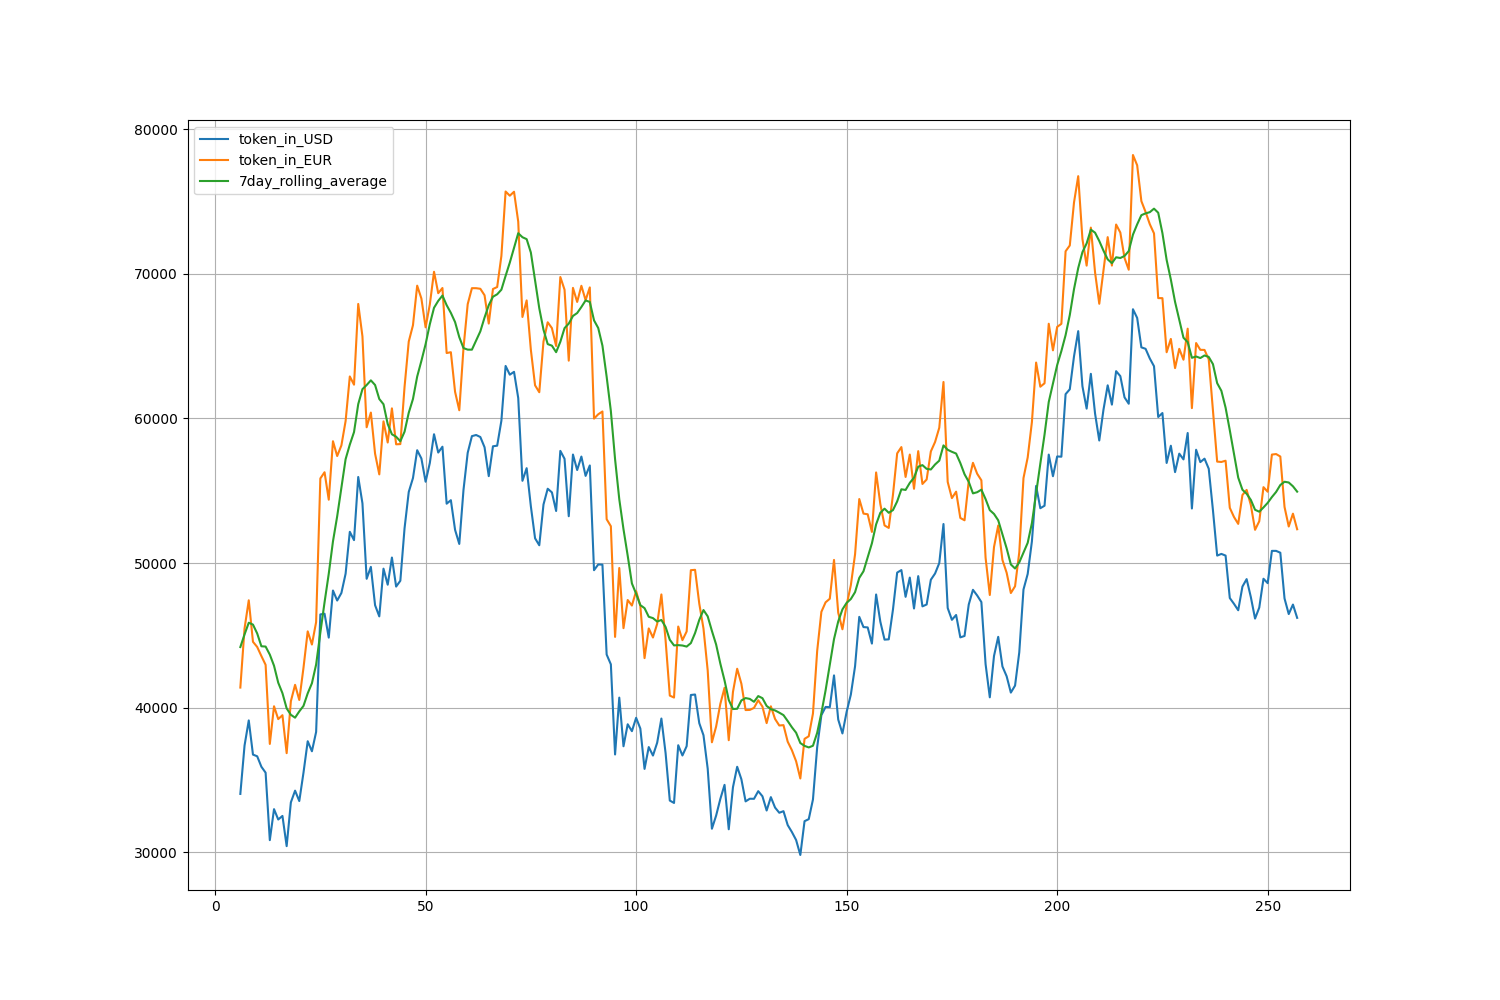
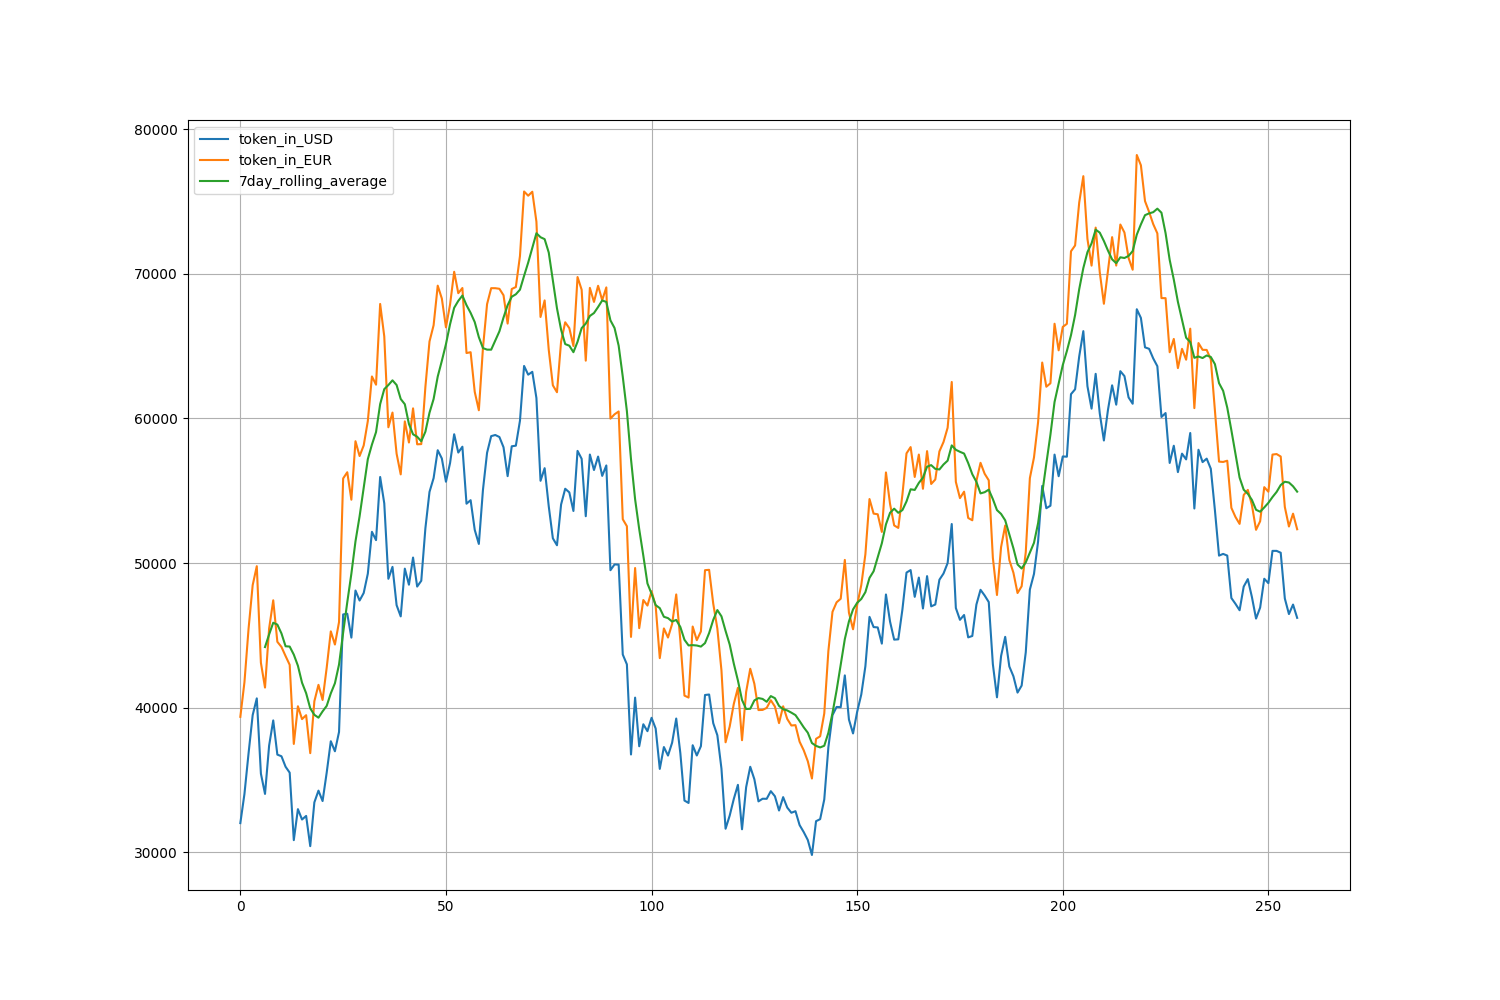
Updating Read Me, Design Flow, Deployment Instructions

diff --git a/calculate_rolling.py b/calculate_rolling.py
@@ -1,6 +1,7 @@
 import pandas as pd
 from messari import MessariData
 import matplotlib.pyplot as plt
+import sys
 
 
 def prepare_euro_ref_data(ref_file, base_currency, min_date, max_date):
@@ -24,17 +25,21 @@ def generate_viz(merged_df):
     """
     plt.figure(figsize=(15,10))
     plt.grid(True)
-    plt.plot(merged_df['amount'], label="token_in_USD")
-    plt.plot(merged_df['eur'], label="token_in_EUR")
+    plt.plot(merged_df['amount_in_usd'], label="token_in_USD")
+    plt.plot(merged_df['euro_price'], label="token_in_EUR")
     plt.plot(merged_df['rolling_avg'], label="7day_rolling_average")
     plt.legend(loc=2)
     plt.savefig("rolling_average_picture.png")
     return 
 
-def calculate_rolling_average(ref_file, token, metric, year, base_currency, min_date, max_date):
+def calculate_rolling_average(context):
     """
         Calculate rolling average
     """
+    # unpack kwargs
+    ref_file = context['ref_file']
+    token, metric, year = context['token'], context['metric'], context['year']
+    base_currency, min_date, max_date = context['base_currency'], context['min_date'], context['max_date']
 
     # instantiate object to get bitcoin price for the given year
     token_timeseries_data = MessariData(token, metric, year).get_asset_timeseries()
@@ -44,7 +49,7 @@ def calculate_rolling_average(ref_file, token, metric, year, base_currency, min_
 
     # create dataframe with response data
     try:
-        token_df = pd.DataFrame(token_timeseries_data['data']['values'], columns=['Date', 'amount'])
+        token_df = pd.DataFrame(token_timeseries_data['data']['values'], columns=['Date', 'amount_in_usd'])
     except:
         raise ("Error extracting response")
     
@@ -53,17 +58,29 @@ def calculate_rolling_average(ref_file, token, metric, year, base_currency, min_
 
     # marge source and reference data to calculate euro conversion from USD
     merged_df = euro_ref.merge(token_df, on='Date')
-    merged_df['eur'] = merged_df['USD'] * merged_df['amount']
+    merged_df['euro_price'] = merged_df['USD'] * merged_df['amount_in_usd']
 
     # calculate 7 rolling average and dropping nulls
-    merged_df['rolling_avg'] = merged_df['eur'].rolling(7).mean()
-    merged_df = merged_df.dropna()
+    merged_df['rolling_avg'] = merged_df['euro_price'].rolling(7).mean()
+    #merged_df = merged_df.dropna()
+
+    # del unused columns
+    del merged_df['USD']
 
     # prepare visualization
     generate_viz(merged_df)
 
-    return 
+    # create output csv
+    merged_df.to_csv(f'data_output/{base_currency}_EUR_{token}_roll_avg_{year}.csv', index=False)
 
-print(calculate_rolling_average('data/eurofxref-hist.csv',
-                                'bitcoin', 'price', '2021', 'USD',
-                                '2021-01-01', '2021-12-31'))
+    print("Process completed")
+    return 
+'''
+print(calculate_rolling_average('data/eurofxref-hist.csv', 'bitcoin', 'price', '2021', 'USD', '2021-01-01', '2021-12-31'))
+'''
+# unpack args and sending context 
+args = sys.argv[1:]
+key_words = ['ref_file', 'token', 'metric', 'year', 'base_currency', 'min_date', 'max_date']
+context = {key:args[index] for index, key in enumerate(key_words)}
+
+calculate_rolling_average(context)

diff --git a/messari.py b/messari.py
@@ -19,3 +19,21 @@ class MessariData:
         except Exception as e:
             raise e
         return response.json()
+
+
+if __name__ == "__main__":
+    test_md = MessariData('bitcoin', 'price', 2021)
+    response = test_md.get_asset_timeseries({"start":"2021-01-01T01:00:00.000Z",
+                    "end":f"2021-01-02T01:00:00.000Z",
+                    "interval":"1d",
+                    "columns":"close",
+                    "timestamp-format":"rfc3339"})
+
+    # asserting data in response keys
+    assert "data" in response.keys()
+
+    # checking token symbol
+    assert response["data"]["symbol"] == "BTC"
+
+    # check value
+    assert response["data"]["values"][0][1] == 32200.200908880128

diff --git a/README.md b/README.md
@@ -1,1 +1,66 @@
-# bitcoin_rolling_avg
+# Calculate Rolling Average for Bitcoin Price in Euro. 
+
+Python App to calculate rolling average in EUR for bitcoin price for the year 2021. Uses Messari API to fetch bitcoin price and uses reference data from Euro to calculate the average. 
+
+### Outputs
+
+- CSV containing rolling average including nulls. 
+    - data_output/USD_EUR_bitcoin_roll_avg_2021.csv
+- visualization showing the trend of 7 day rolling avg with price in USD & EUR. 
+    - rolling_average_picture.png
+
+### Running the application
+
+```python
+python calculate_rolling.py 'data/eurofxref-hist.csv' 'bitcoin' 'price' '2021' 'USD' '2021-01-01' '2021-12-31'
+```
+
+Script followed by
+- **reference file name** containing USD to EUR exchange rate
+- **token** as expected by messari api
+- **metric** as expected by messari api
+- **year** for which the average is calculated
+- **base currency** for conversion
+- **min date** range for the request
+- **max date** range for the request
+
+### Design & Approach
+
+- Separate module for API Interaction which provides extensibility to fetch data from other end points. 
+- Average calculation and Input are coupled in the same script but handled separately. 
+- Source data can be staged before compute to provide the ability to perform multiple reads to the as needed.
+- backend data store provides flexibility to perform adhoc querying, connect data store to BI tools.
+
+Here is the high level design for the app
+
+More unit test cases should be added to relevant scripts to cover base functionality (added few relevant ones in messari.py)
+
+![High level design](/high_level_design.png)
+
+### Production Considerations & deployment
+
+Considering this application will be executed daily and the complexity, serverless deployment like lambda could be faster and easier to maintain. Here are some patterns based on some assumptions
+
+- Assumptions
+    - Daily fetch for the current day
+    - this application to calculate rolling average is maintained separately
+    - we are clear with known issues around API, Cloud environment
+
+- Requirements
+    - Functional
+        - Ability to Calculate 7 day rolling average in EURO
+        - Ability to generate data visualization picture if required.
+        - Ability to fetch right token data from Messari API
+    - Non functional
+        - Low latency
+        - Consistency over availability
+
+- Deployment
+    - AWS Serverless deployment to run the app via Lambda (s3 & RDS can used as data store before and after compute)
+        - this can be done via make file and aws cli and can be pipelined via Jenkins
+        - cloudformation stacks and policies with jenkins
+        - Github actions or Circle CI deployment to create a packge and deploy as lambda function
+        - Schedule the job to run according to cron schedule
+    - Airflow
+        - If there is a Airflow instance that's set up with deployment already then this can simply be a DAG and reuable API components can be shared across to be utilized by any other DAG or Tasks
+    
